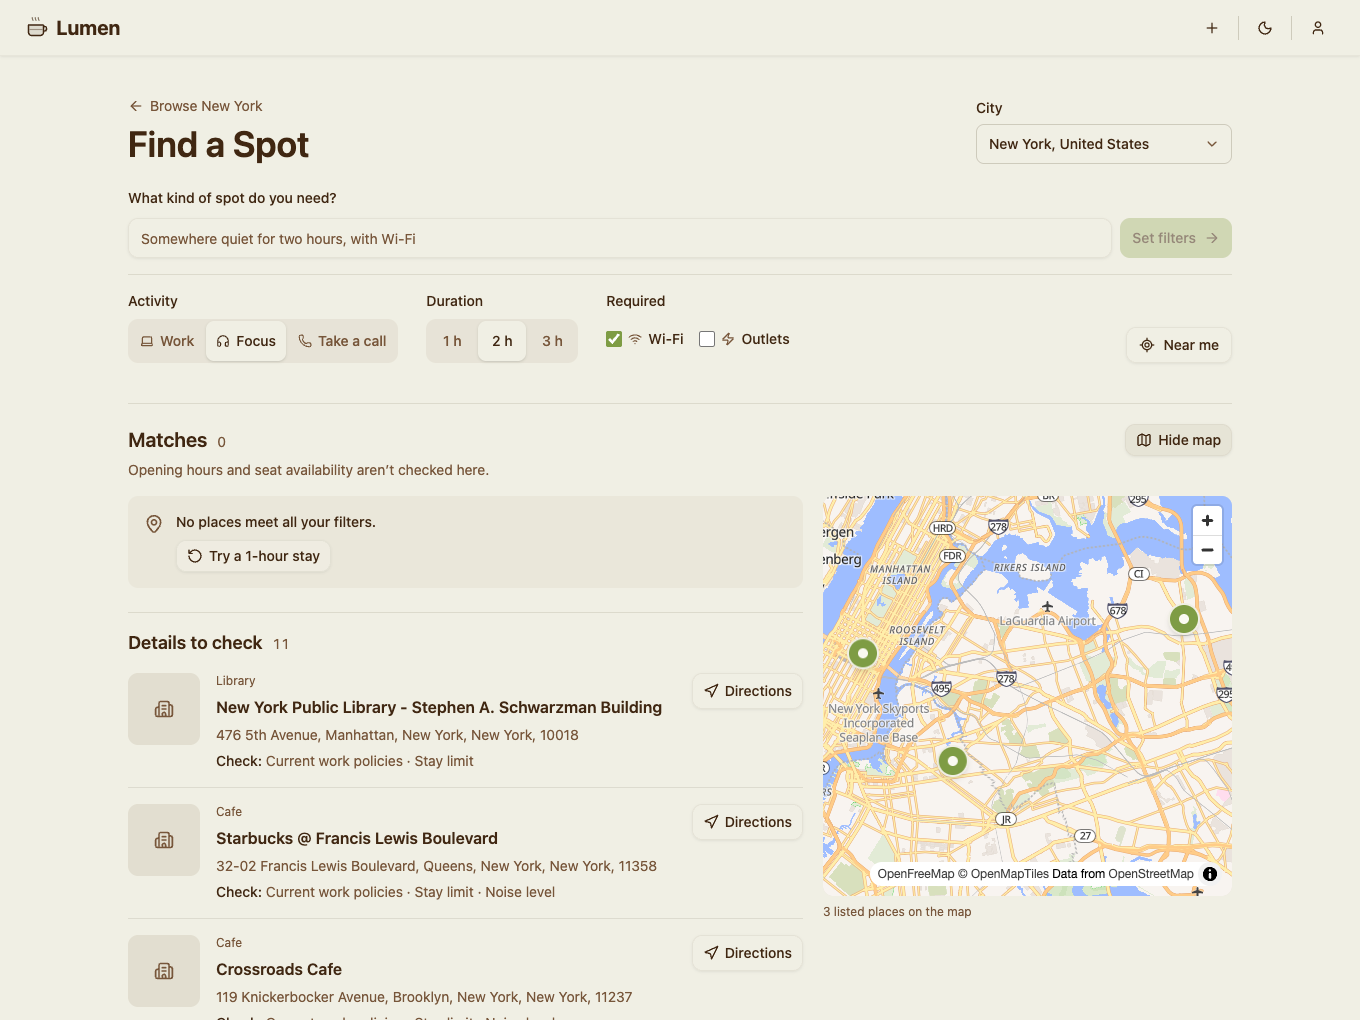
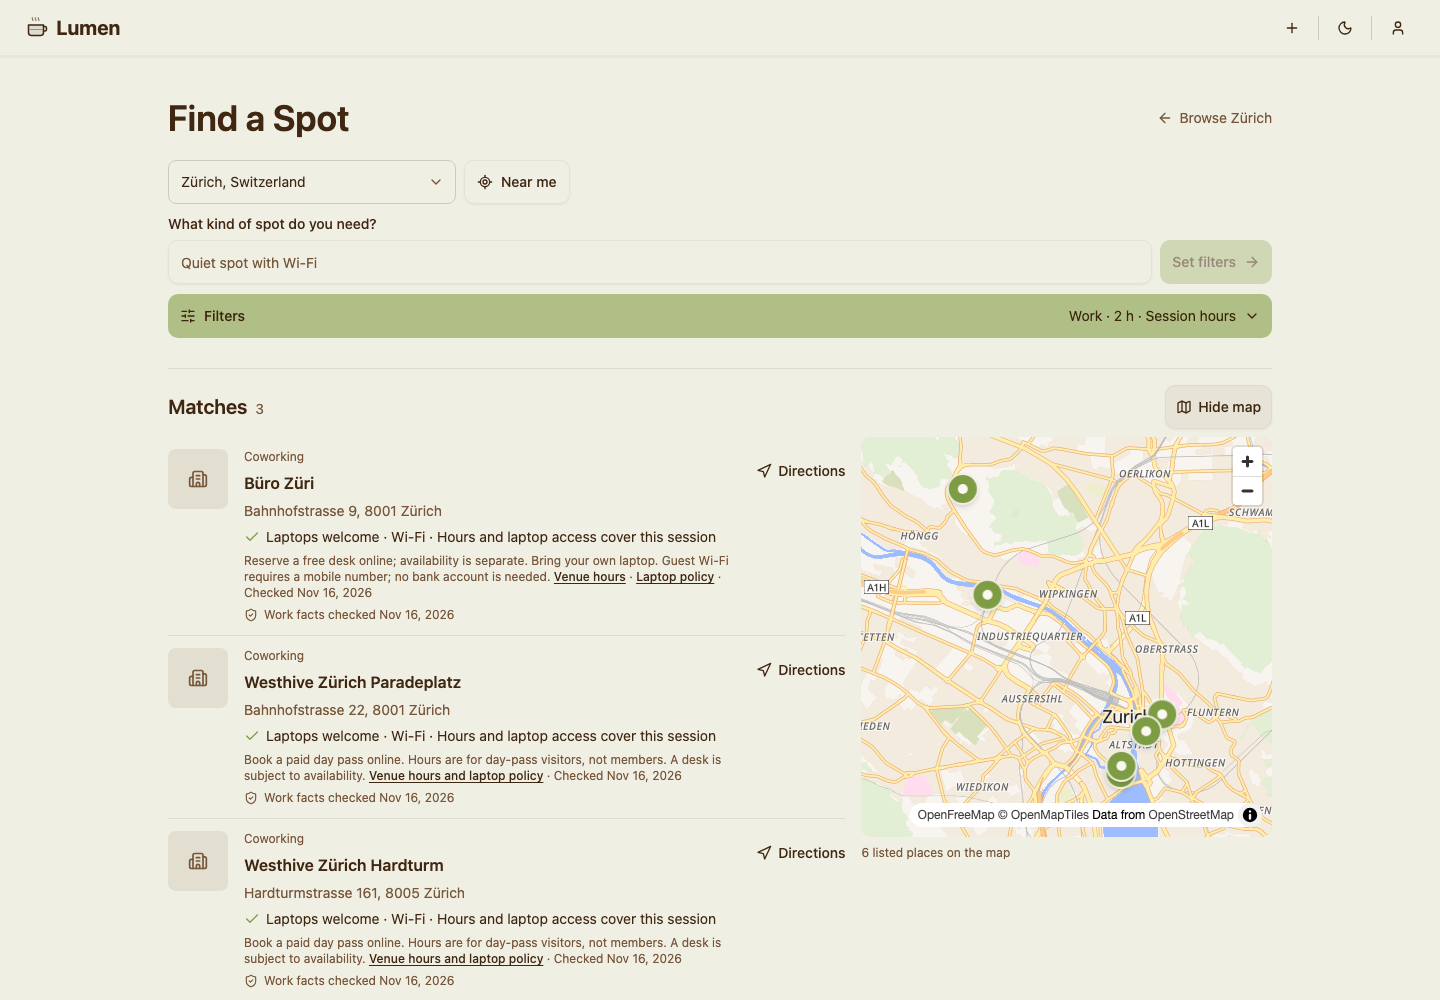
Document Lumen with real screenshots and reproducible browser checks

diff --git a/playwright.config.ts b/playwright.config.ts
@@ -11,7 +11,7 @@ if (startServer && (baseURL !== localURL || process.env.NEXT_PUBLIC_SUPABASE_URL
 
 export default defineConfig({
   testDir: "./tests/e2e",
-  use: { baseURL },
+  use: { baseURL, trace: startServer ? "retain-on-failure" : "off" },
   forbidOnly: Boolean(process.env.CI),
   webServer: startServer ? [{
     command: "node tests/support/auth-fixture-server.mjs",

diff --git a/README.md b/README.md
@@ -1,27 +1,40 @@
 # Lumen
 
-Find a cafe, library, or coworking space where you can get some work done. Lumen helps you decide where to go based on laptop policies, stay limits, Wi-Fi, and outlets, and shows which details still need checking.
+Find a café, library, or coworking desk that fits the work you need to do. Lumen helps you plan around laptop rules, verified opening hours, Wi-Fi, outlets, and stay limits. It shows what still needs a check instead of treating missing data as a match.
 
-[Try Find a Spot](https://lumen-lime.vercel.app/find?city=new-york-united-states) · [Browse cities](https://lumen-lime.vercel.app/cities) · [Read the architecture](docs/engineering/architecture.md)
+[Live demo](https://lumen-lime.vercel.app/find?city=z-rich-schweiz-suisse-svizzera-svizra) · [Product walkthrough](docs/showcase/walkthrough.md) · [Architecture](docs/engineering/architecture.md) · [Checks](https://github.com/TiagoValenteM/Lumen/actions/workflows/checks.yml)
 
-[![Find a Spot showing New York results, work filters, and a map](docs/showcase/find-a-spot.png)](https://lumen-lime.vercel.app/find?city=new-york-united-states)
+![Find a Spot showing verified coworking options and a map of Zurich](docs/showcase/find-a-spot.png)
 
-## Try it in two minutes
+## Try the app
 
-1. Open [Find a Spot in New York](https://lumen-lime.vercel.app/find?city=new-york-united-states) and type `Somewhere quiet for two hours, with Wi-Fi`. The app turns the request into filters you can edit.
-2. Open the map or inspect a listing. If a fact is missing or out of date, the place appears under **Details to check** instead of **Matches**. Opening hours and seat availability aren't verified by the finder.
-3. Visit [Lisbon](https://lumen-lime.vercel.app/cities/lisbon) for the city directory experience, or see the [mobile view](docs/showcase/lisbon-mobile.png). Browsing needs no account; an account lets you save places, mark visits, review venues, and submit corrections or new listings.
+1. Open [Find a Spot in Zürich](https://lumen-lime.vercel.app/find?city=z-rich-schweiz-suisse-svizzera-svizra). Enter `Somewhere quiet for two hours, with Wi-Fi` or set those filters directly.
+2. Turn on **Open for my session** and pick a start time. **Matches** fit the selected filters; **Places to check** explains missing or out-of-date evidence. A match does not guarantee an available seat.
+3. Open the map or a [place detail](https://lumen-lime.vercel.app/cities/z-rich-schweiz-suisse-svizzera-svizra/cafe-du-bonheur-zurich). Browse without signing in, or sign in to save, review, report a visit, or submit a place.
 
-## Engineering decisions
+See the [mobile filters](docs/showcase/session-filters-mobile.png) and [place detail](docs/showcase/workspace-detail.png). These are captures of the public app, not design mockups.
 
-- **Match on evidence.** The [matching function](lib/features/find-a-spot/matching.ts) distinguishes missing, negative, and stale facts. The same filters drive the shortlist and map. Plain-English parsing works without an AI service.
-- **Make submissions safe to retry.** The [submission transaction](supabase/migrations/20261112000400_submit_workspace_with_city_proposal.sql) writes the listing and photo records together. A first-place submission can propose a city, but that city stays off the public directory until approval.
-- **Keep publishing with the reviewer.** Optional AI research proposes field edits. The moderator chooses what to save, and the [review transaction](supabase/migrations/20261112000200_make_ai_review_atomic.sql) records the accepted fields alongside the workspace update.
+## What the code demonstrates
 
-## Run it locally
+| Decision | Implementation |
+| --- | --- |
+| **Uncertainty is part of the result.** | The [matching engine](lib/features/find-a-spot/matching.ts) distinguishes missing, negative, and stale facts. [Session checks](lib/features/find-a-spot/session-availability.ts) evaluate the full visit in the venue's timezone, including holidays and overnight windows. |
+| **A place is private until approved.** | The [submission transaction](supabase/migrations/20261112000400_submit_workspace_with_city_proposal.sql) writes a listing and photo records together. The first submission can propose a city without exposing it publicly. |
+| **AI proposes; reviewers publish.** | Optional AI research suggests field edits. The [review transaction](supabase/migrations/20261112000200_make_ai_review_atomic.sql) records approved edits alongside the saved changes. Visit reports and expiring evidence enter a [private review queue](supabase/migrations/20261116000200_review_workspace_session_evidence.sql). |
 
-Lumen uses Next.js App Router, TypeScript, Tailwind CSS, Supabase, and MapLibre. The [development guide](docs/engineering/development.md) covers Node.js, pnpm, an isolated database, and environment variables. [GitHub Actions](https://github.com/TiagoValenteM/Lumen/actions/workflows/checks.yml) runs lint, type checks, tests, and a production build.
+**Stack:** Next.js App Router, TypeScript, Tailwind CSS, Supabase PostgreSQL/Auth/Storage, MapLibre, and Vercel.
 
-[Demo walkthrough](docs/showcase/walkthrough.md) · [Documentation index](docs/index.md) · [Deployment runbook](docs/operations/deployments.md)
+## Develop and verify
+
+Use Node.js 24 and pnpm 10. Code and PostgreSQL tests do not need Supabase credentials:
+
+```sh
+pnpm install --frozen-lockfile
+pnpm test
+```
+
+- [Local setup and browser tests](docs/engineering/development.md)
+- [Documentation index](docs/index.md) and [deployment runbook](docs/operations/deployments.md)
+- [Contributing](CONTRIBUTING.md) and [private security reporting](SECURITY.md)
 
 Built by [Tiago Valente](https://github.com/TiagoValenteM). Proudly developed in Switzerland.

diff --git a/docs/showcase/walkthrough.md b/docs/showcase/walkthrough.md
@@ -2,7 +2,13 @@
 
 ## Start with a decision
 
-Open [Find a Spot in New York](https://lumen-lime.vercel.app/find?city=new-york-united-states) and enter `Somewhere quiet for two hours, with Wi-Fi`. Show the filters it selects, then open the map. Point out a result under **Details to check** and explain what information would move it into **Matches**. There may be no confirmed matches for that request; the app does not relax the filters or claim a place is open.
+Open [Find a Spot in Zürich](https://lumen-lime.vercel.app/find?city=z-rich-schweiz-suisse-svizzera-svizra) and enter `Somewhere quiet for two hours, with Wi-Fi`. Show the filters it selects, then open the map. Enable **Open for my session** and choose a start time. **Matches** cover the full requested session when supported by current venue evidence; **Places to check** identifies what is missing. A scheduled match is not a reservation.
+
+| Desktop search | Mobile session controls | Venue evidence and actions |
+| --- | --- | --- |
+| [Find a Spot with map](find-a-spot.png) | [Session filters on a phone](session-filters-mobile.png) | [Café du Bonheur detail](workspace-detail.png) and [credited photo](workspace-photo.png) |
+
+These are guest captures from the live app. To recapture, install Chromium with `pnpm exec playwright install chromium` and run `pnpm showcase:capture <future-UTC-session>` from the repository root. Pick a weekday during current Büro Züri and Westhive visitor hours. The script blocks write requests and does not sign in. The map keeps its displayed attribution; see [the venue sources](../product/zurich-cafe-coworking-sources.md) for the café photograph credit.
 
 ## Follow one listing through the system
 
@@ -14,4 +20,4 @@ With a staging account, use Add a Place to search for an address and adjust the 
 - [AI review transaction](../../supabase/migrations/20261112000200_make_ai_review_atomic.sql): the workspace update and recorded field decisions commit together.
 - [Permission tests](../../tests/moderation-security.test.mjs): tests change database roles to check what members, moderators, and the server can do, independent of the UI.
 
-The next product milestone is a city with enough checked listings for a reliable shortlist. The [pilot notes](../product/find-a-spot.md) describe what to verify and which claims the finder still cannot make.
+The [pilot notes](../product/find-a-spot.md) describe what to verify and which claims the finder still cannot make.

diff --git a/docs/operations/deployments.md b/docs/operations/deployments.md
@@ -38,11 +38,12 @@ After migration, admin authority comes from `lumen_private.admin_roles`, not `pr
 
 ## Browser smoke tests
 
-- GitHub checks run the fixture-based browser suite against the compiled app with a local server and no production credentials. The session-hours test runs the real migration in a disposable PostgreSQL database and covers draft visibility, concurrent edits, holiday closure, and withdrawal.
+- GitHub checks run Chromium and WebKit against the compiled app with a local server and no production credentials. The session-hours test runs the real migration in a disposable PostgreSQL database and covers draft visibility, concurrent edits, holiday closure, and withdrawal.
 - The [development guide](../engineering/development.md) covers the local checks. The database suite exercises SQL privileges and RLS in embedded PostgreSQL, without staging credentials.
 - The browser smoke test needs a running app connected to a disposable staging database with the migrations applied. Create one regular test account and one moderator test account there. Install Chromium with `pnpm exec playwright install chromium`, then run `pnpm test:e2e` with these environment variables:
   - `LUMEN_E2E_ALLOW_WRITES=staging` and `LUMEN_E2E_BASE_URL` (the staging app).
   - `LUMEN_E2E_SUPABASE_URL`, `LUMEN_E2E_SUPABASE_PUBLISHABLE_KEY`, and `LUMEN_E2E_SUPABASE_SECRET_KEY` (the same staging database).
+  - `LUMEN_E2E_CONFIRM_DATABASE_ORIGIN` (the exact staging Supabase origin, without a trailing slash). The test rejects the known production domain and Supabase project; still verify the staging Vercel app is connected to the same isolated project.
   - `LUMEN_E2E_MEMBER_EMAIL`, `LUMEN_E2E_MEMBER_PASSWORD`, `LUMEN_E2E_ADMIN_EMAIL`, and `LUMEN_E2E_ADMIN_PASSWORD`.
 - The browser test inserts and removes a disposable place and city, uses deterministic AI suggestions, and verifies that Find a Spot treats unknown facts correctly. Separately submit a real staging place to verify the OpenRouter provider, background execution and geocoding credentials.
 - Check the city map and map pin on desktop and mobile. MapLibre 5.24.1 includes the maintainer's sanitizer backport and avoids the WebGL2-only 6.x upgrade. The npm audit feed may still flag it because its affected range omits the patched 5.x branch; see [the maintainer advisory](https://github.com/maplibre/maplibre-gl-js/security/advisories/GHSA-jrc7-96c5-q579).

diff --git a/docs/engineering/architecture.md b/docs/engineering/architecture.md
@@ -4,7 +4,7 @@ Lumen uses Next.js App Router, TypeScript, Supabase PostgreSQL/Auth/Storage, and
 
 ## Three paths through the app
 
-**Find a place.** [Find a Spot](../../app/find) loads a city's approved listings and their work-fact check dates. A [pure matcher](../../lib/features/find-a-spot/matching.ts) returns matches and places that still need verification. Plain-English requests and manual controls set the same URL filters. Exact device location stays in the browser, and the map loads on demand.
+**Find a place.** [Find a Spot](../../app/find) loads approved listings and work-fact check dates. A [pure matcher](../../lib/features/find-a-spot/matching.ts) separates matches from places that still need verification. [Session evaluation](../../lib/features/find-a-spot/session-availability.ts) checks the whole visit against the venue's opening and laptop schedules, including holiday exceptions. Plain-English requests and manual controls set the same URL filters. Exact device location stays in the browser, and the map loads on demand.
 
 **Submit a place.** [Add a Place](../../app/add-workspace) combines address search with an adjustable map pin. The [geocoding routes](../../app/api/geocode) authenticate the user and enforce server-side quotas before contacting providers. The submission RPC commits the place and its photo records together and accepts retries with the same draft ID. A proposed city stays off the public directory until approval.
 
@@ -18,7 +18,7 @@ Lumen uses Next.js App Router, TypeScript, Supabase PostgreSQL/Auth/Storage, and
 | [`components/`](../../components) | Shared interface primitives and reusable feature components. |
 | [`lib/features/`](../../lib/features) | Domain logic shared by routes: matching, submissions, location lookup, and moderation. |
 | [`lib/supabase/`](../../lib/supabase) | Browser, server, and privileged Supabase clients. |
-| [`supabase/`](../../supabase) | Migrations, policies, and database checks. |
+| [`supabase/`](../../supabase/README.md) | Versioned migrations, read-only checks, dated data patches, and staging fixtures. |
 | [`tests/`](../../tests) | Matching, location, and AI tests; PostgreSQL permission tests; a staging browser suite. |
 | [`scripts/`](../../scripts) | Staging bootstrap and [operator-only import tools](../operations/location-imports.md). |
 

diff --git a/docs/engineering/development.md b/docs/engineering/development.md
@@ -30,3 +30,20 @@ pnpm build
 ```
 
 Unit and embedded PostgreSQL tests run without Supabase credentials. The build may need network access for fonts. The [deployment runbook](../operations/deployments.md#browser-smoke-tests) lists what the write-enabled Playwright suite needs on a disposable staging database.
+
+## Browser tests without credentials
+
+```bash
+pnpm exec playwright install chromium webkit
+pnpm test:e2e:local --browser=chromium
+pnpm test:e2e:local --browser=webkit
+```
+
+The command compiles a separate fixture build with loopback configuration and shuts down its test servers afterwards. Stop any development server sharing the same build directory first. It does not use the Supabase project in `.env.local`. On a failure, open the generated trace under `test-results/` with `pnpm exec playwright show-trace <trace.zip>`. GitHub Actions runs both browser engines and uploads traces only for fixture failures.
+
+| Layer | What it exercises |
+| --- | --- |
+| Unit | Availability, time zones, URL filters, AI parsing, and import safeguards. |
+| Database integration | PostgreSQL migrations, transactional imports, moderation, RLS, and concurrent edits in PGlite. |
+| Browser, isolated | Public browsing, maps, navigation, sign-in return paths, photos, and moderation flows with fixtures. |
+| Browser, staging only | Real account, Storage and publication flow; enable only with the disposable target described in the runbook. |

diff --git a/CONTRIBUTING.md b/CONTRIBUTING.md
@@ -1,0 +1,9 @@
+# Contributing to Lumen
+
+Start with the [development guide](docs/engineering/development.md) for local setup, then read the [project conventions](docs/engineering/project-conventions.md) before changing application code.
+
+- Keep pull requests focused. Share what changed, why, and how it was verified. For interface changes, include a screenshot or recording without account information.
+- Use `pnpm test` for pure logic and embedded PostgreSQL tests; run the browser suite for changes to navigation, authentication, forms, or moderation. Cover absence, invalid inputs, and permission boundaries as well as the happy path.
+- Never point fixtures, write-enabled tests, or seeds at production. For schema changes, add a migration rather than editing a migration already applied elsewhere. Describe rollout order and risks.
+- For venue data, provide a primary source and the date checked. Leave unknown facts unknown. Do not include photos or reviews without permission to reuse them.
+- Do not post secrets or personal information in an issue or screenshot. See [security reporting](SECURITY.md) for issues involving a vulnerability.

diff --git a/SECURITY.md b/SECURITY.md
@@ -1,0 +1,5 @@
+# Security
+
+Report suspected vulnerabilities privately using the email channel listed on [Lumen's contact page](https://lumen-lime.vercel.app/legal/contact). Use the subject `Lumen security report` and include the affected page or component, the impact you observed, and steps to reproduce with your own test account. Do not publish exploit details in an issue.
+
+Do not send credentials, access tokens, personal information, or database exports. Do not test destructive behavior, bypass moderation, or access other users' data on the live service. The [development guide](docs/engineering/development.md) explains how to run isolated tests.

diff --git a/.github/pull_request_template.md b/.github/pull_request_template.md
@@ -1,0 +1,5 @@
+## What changed and why?
+
+## How was it verified?
+
+## Screenshots, data changes, or deployment notes (if applicable)
